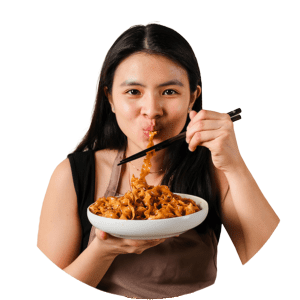
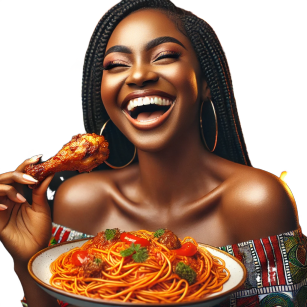
new image

diff --git a/Frontend/PrimeGrillsclient/src/components/HomeHeroSection/Hero.tsx b/Frontend/PrimeGrillsclient/src/components/HomeHeroSection/Hero.tsx
@@ -70,24 +70,25 @@ const Hero = () => {
                 viewport={{ once: true, margin: "-50px" }}
                 variants={slideVariants}
             >
-                <div className="relative h-[400px] w-[300px]">
+                <div className="relative h-[400px] w-[400px]">
                     {/* Red Circle */}          
-                    <span className="bg-[#EE7F61] absolute inset-0 m-auto top-24  rounded-full h-[300px] w-[300px] z-[-1]"></span>
+                    <span className="bg-[#EE7F61] absolute inset-0 m-auto top-35  rounded-full h-[340px] w-[340px] z-[-1]"></span>
                     {/* Hero Image */}
                     <img src={hero} alt="heroimg"
-                        className="object-cover absolute top-0 left-0 w-[300px] h-[400px] rounded-full overflow-hidden"
+                        className="object-cover absolute inset-0 m-auto w-[350px] h-[350px]"
+                      
                     />
                 </div>
 
                 {/* Hot Spicy Meal Label */}
-                <div className=" hidden md:block absolute md:left-[-120px] px-2  py-2  transform -translate-y-1/2 bg-white md:px-8 md:py-4
+                <div className=" hidden md:block absolute md:left-[-100px] px-2  py-2  transform -translate-y-1/2 bg-white md:px-8 md:py-4
                     rounded-lg shadow-[#EE7F61] shadow-2xl left-[-70px] top-30">
                     <h2 className="text-[#EE7F61] font-semibold">Hot Spicy Meal ?</h2>
                     <div className='bg-white absolute right-0 shadow-xl h-5 md:h-7 w-3 rounded-bl-3xl rounded-xl'/>
                 </div>
 
                 {/* Item Card */}
-                <div className="absolute bottom-[-40px] lg:right-2">
+                <div className="absolute bottom-[-60px] lg:right-15">
                     <ItemCard />
                 </div>
             </motion.div>      

diff --git a/Frontend/PrimeGrillsclient/src/components/HeroSection/Hero.tsx b/Frontend/PrimeGrillsclient/src/components/HeroSection/Hero.tsx
@@ -5,7 +5,7 @@ import { useNavigate } from 'react-router-dom';
 
 // INTERNAL IMPORTS
 import Button from "../Navbar/button";
-import hero from "../../assets/images/heroimage.png";
+import hero from "../../assets/images/heroimage.jpg";
 import ItemCard from "../itemCard/itemCard.tsx";
 import { headerVariants, slideVariants } from '../../utils/utils.ts';
 
@@ -73,7 +73,7 @@ const Hero =() => {
                         <img
                         src={hero}
                         alt="heroimg"
-                        className="object-cover absolute top-0 left-0 w-[300px] h-[400px] rounded-full overflow-hidden"
+                        className="object-cover absolute top-0 left-0 w-[400px] h-[400px] rounded-full overflow-hidden"
                         />
                     </div>
 

diff --git a/Frontend/PrimeGrillsclient/src/components/HomeCategorySection/MenuCard.tsx b/Frontend/PrimeGrillsclient/src/components/HomeCategorySection/MenuCard.tsx
@@ -13,8 +13,8 @@ const MenuCard: React.FC<MenuProps> =  ({
     return (
         <div id="menuCategory" className="w-full border-t border-t-gray-300 bg-white p-3 rounded-2xl flex flex-col
          shadow-gray-400 shadow-lg items-center justify-center">
-            <div className="  ">
-                <img src={img} alt={title} className="h-[81px] w-[79px] mt-2 rounded-full bg-[#EE7F61]" />
+            <div className=" w-[101px] rounded-full  ">
+                <img src={img} alt={title} className="h-[101px] w-[101px] mt-2" />
             </div>
             <div className="text-left p-2 ">
                 <h3 className="font-bold text-md text-center" >{title}</h3>

diff --git a/Frontend/PrimeGrillsclient/src/components/HomeCategorySection/menuItemDetails.ts b/Frontend/PrimeGrillsclient/src/components/HomeCategorySection/menuItemDetails.ts
@@ -1,6 +1,6 @@
 // INTERNAL IMPORTS
-import menuimg1 from "../../assets/images/menuimg1.png";
-import menuimg2 from "../../assets/images/menuimg2.png";
+import menuimg1 from "../../assets/images/desert.png";
+import menuimg2 from "../../assets/images/drinks.png";
 import menuimg3 from "../../assets/images/menuimg3.png";
 import heroimg1 from "../../assets/images/heroimg1.png";
 
